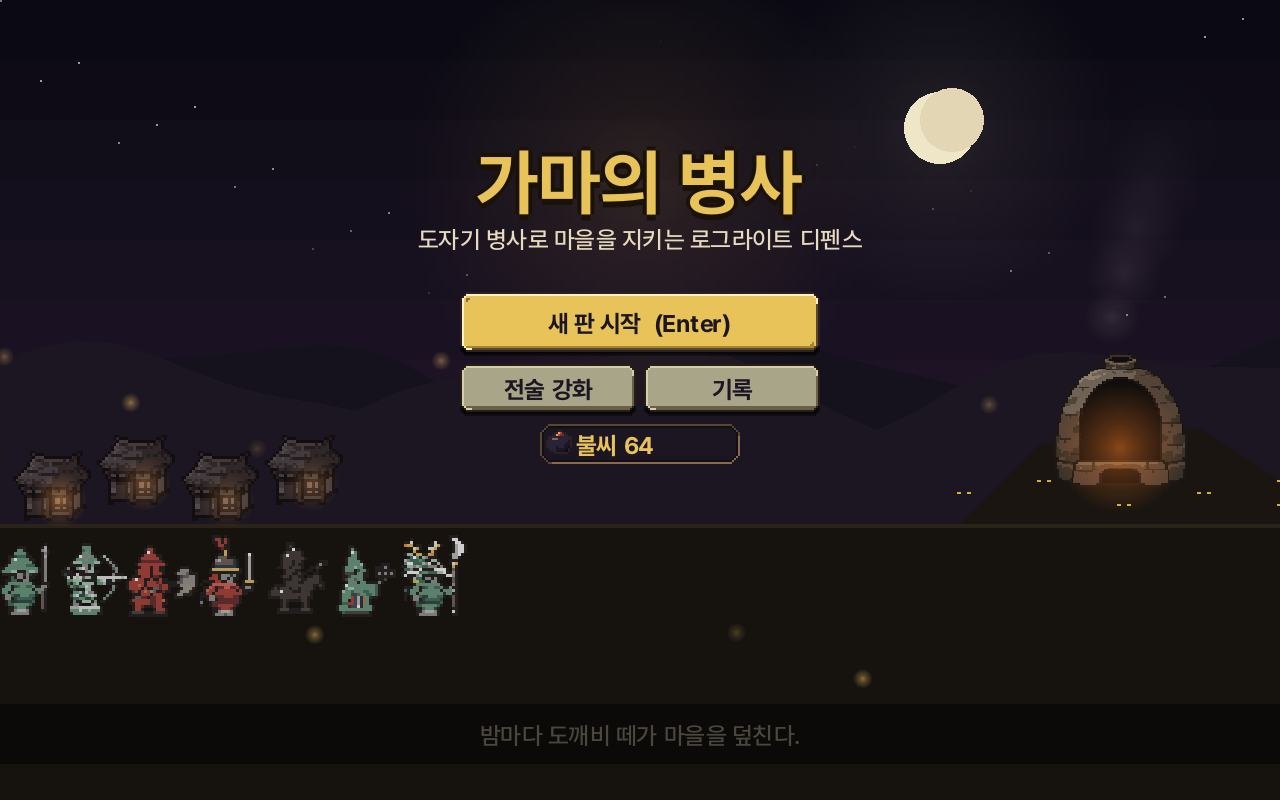
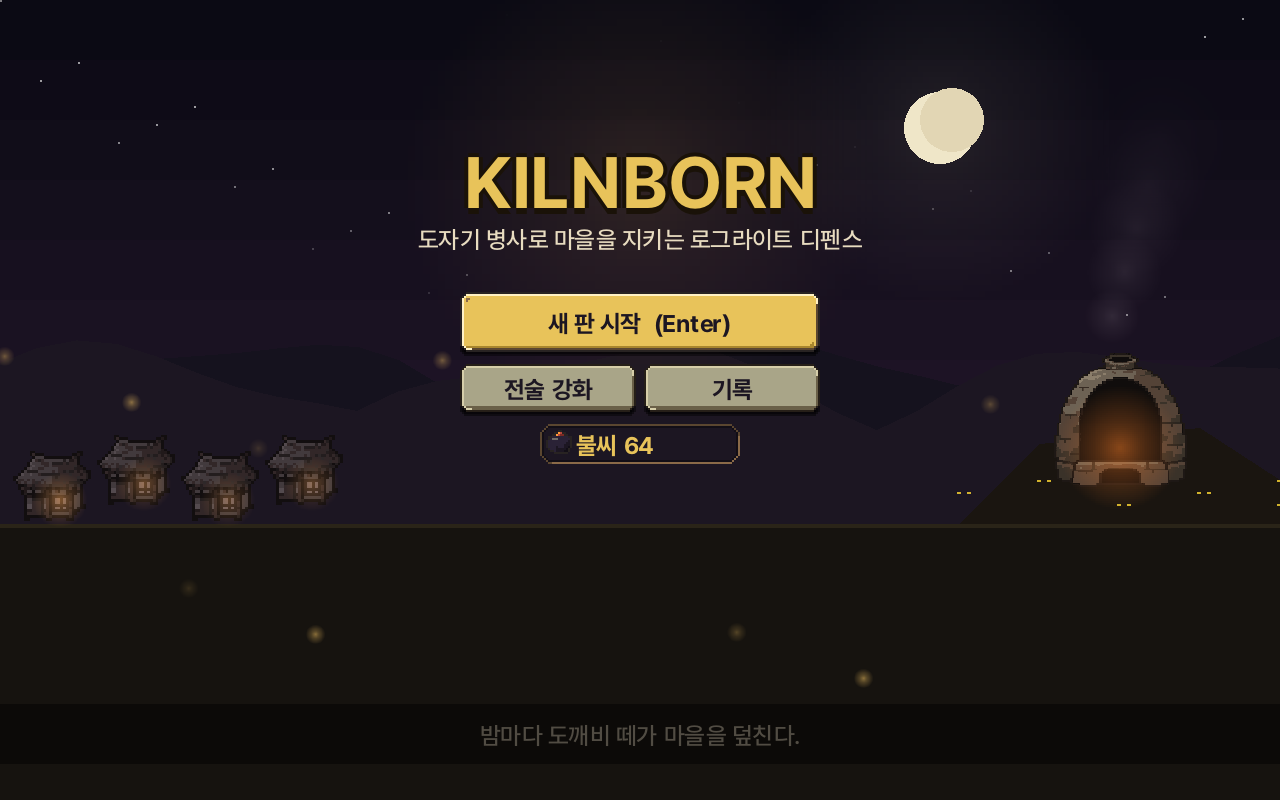
게임 이름 KILNBORN
사용자 (2026-11-28): "KILNBORN 이거만 해서 이름 정하자"
- 시작 화면 제목, project.godot 이름, AGENTS.md (예전 이름 '가마의 병사'는 주석에 남을 수 있음)
- 시작 화면의 도트 병사 행렬은 뺌 (표지 그림 지시서 10 이 대신)

검사: p0·p1 통과, 스크린샷 오류 0.

Claude-Session: https://claude.ai/code/session_013YWHGz7E5qjq6QhV64LkwS

Changed region(s): [[0.0, 0.6562, 0.375, 0.7812], [0.3438, 0.1875, 0.6562, 0.2812]]

diff --git a/work/2026-11-28-표지/handoff-10.md b/work/2026-11-28-표지/handoff-10.md
@@ -23,7 +23,7 @@
 - 빛은 한 방향: 오른쪽 가마 불빛이 주된 빛 (병사 등·어깨 오른쪽에 주황 테두리 빛), 달빛은 약한 푸른 보조광
 - 병사는 '유약 바른 도자기 인형' — 매끈한 몸, 유약 반사(흰 광택 한두 점), 얼굴은 회색 도자기, 발밑 받침. 청자(비취)·진사(구리빛 붉은)·흑유(검은 갈색 + 기름 광택)가 섞인 무리. 창·활·방패·장수 깃발
 - 도깨비: 먹빛 남색·회청색 몸 + 노란 눈 (진사 빨강 금지). 표지에서는 숲 어둠 속 눈빛과 윤곽 정도만
-- **글자·로고 넣지 않기** (제목은 게임이 쓴다. 게임 이름이 곧 바뀔 수 있음)
+- **글자·로고 넣지 않기** (제목 "KILNBORN" 은 게임이 쓴다)
 - 구도: 가운데 위쪽(대략 x 200~440, y 40~230)은 제목·버튼 자리 → 어둡고 단순하게 비워 둔다
 - handoff-08 의 "AI 티 없애기" 10가지 (팔레트·덩어리·한 방향 빛·그라데이션 절제·형태 먼저·한 벌)
 

diff --git a/AGENTS.md b/AGENTS.md
@@ -32,7 +32,7 @@
 
 ## 프로젝트 구조
 
-지금: **가마의 병사** 하나 (2026-11-30 사용자: "게임은 가마 병사만 하고 알 관련 게임은 없이"). 시작하면 `src/game/kiln_scene` 첫 화면으로 바로 간다.
+지금: **KILNBORN** 하나 (2026-11-28 사용자가 정한 게임 이름. 예전 이름 "가마의 병사" — 코드·문서 주석에 남아 있으면 같은 게임) (2026-11-30 사용자: "게임은 가마 병사만 하고 알 관련 게임은 없이"). 시작하면 `src/game/kiln_scene` 첫 화면으로 바로 간다.
 지난 시험판 **AFTERSELF (가제)** 는 보류 (`docs/기획서.md`, `src/core/`). Godot 4.7, 위에서 내려다보는 2D 픽셀 아트(타일 32×32).
 
 | 위치 | 내용 |

diff --git a/work/2026-11-28-가마연출/NOTES.md b/work/2026-11-28-가마연출/NOTES.md
@@ -41,3 +41,5 @@
 - "로비에서 ... 전술 도감을 볼 수가 없어" → 로비 위 '전술' 버튼으로 전술 강화 화면 (뒤로 가면 로비). '전술 도감'이 다른 것을 뜻하면 다시 물어볼 것
 - "게임 시작할 때 배경 ... codex에게 맡겨봐" → handoff-10 (work/2026-11-28-표지/), 표지 세 겹 연결해 둠. 그림 전에는 도트 병사를 어두운 실루엣으로
 - "게임 이름 ... 다른 나라에서도" → 후보 제안 (사용자가 고르면 바꿈)
+
+- 2026-11-28 "KILNBORN 이거만 해서 이름 정하자" → 시작 화면 제목·project.godot 이름·AGENTS.md. 한글 부제 없이 영어 이름만
